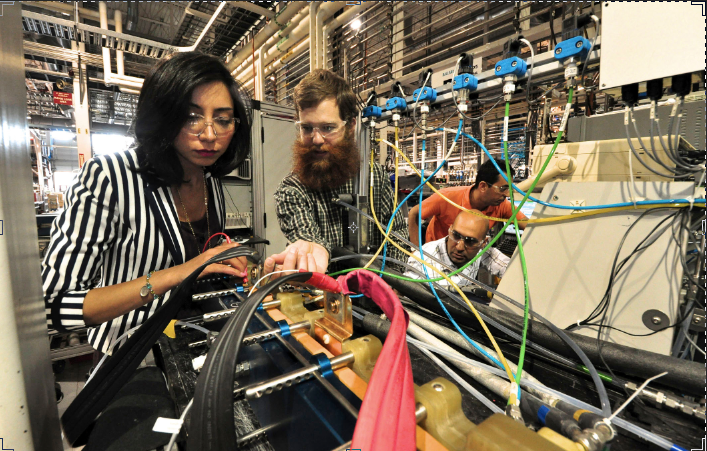
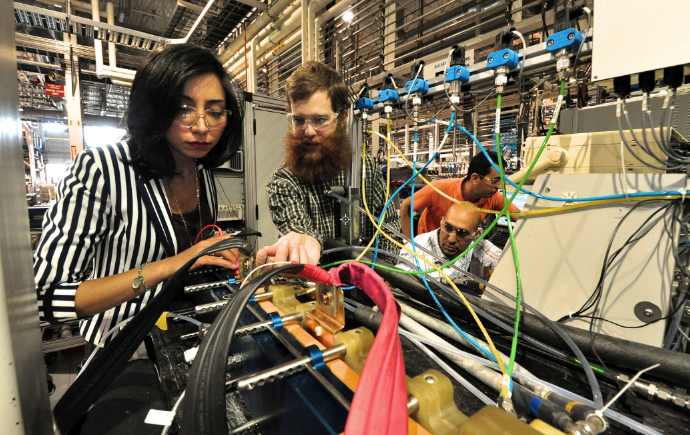
photo change

diff --git a/index.html b/index.html
@@ -104,7 +104,7 @@ Version   : 1.0
             </div>
           </div>
           <div class="item">
-            <img class="second-slide" src="img/students_at_ballard.png" alt="Second slide">
+            <img class="second-slide" src="img/nserc_054.JPG" alt="Second slide">
             <div class="container">
               <div class="carousel-caption">
                 <h1>Another example headline.</h1>
@@ -114,7 +114,7 @@ Version   : 1.0
             </div>
           </div>
           <div class="item">
-            <img class="third-slide" src="nserc_054.JPG" alt="Third slide">
+            <img class="third-slide" src="img/nserc_003.JPG" alt="Third slide">
             <div class="container">
               <div class="carousel-caption">
                 <h1>One more for good measure.</h1>
